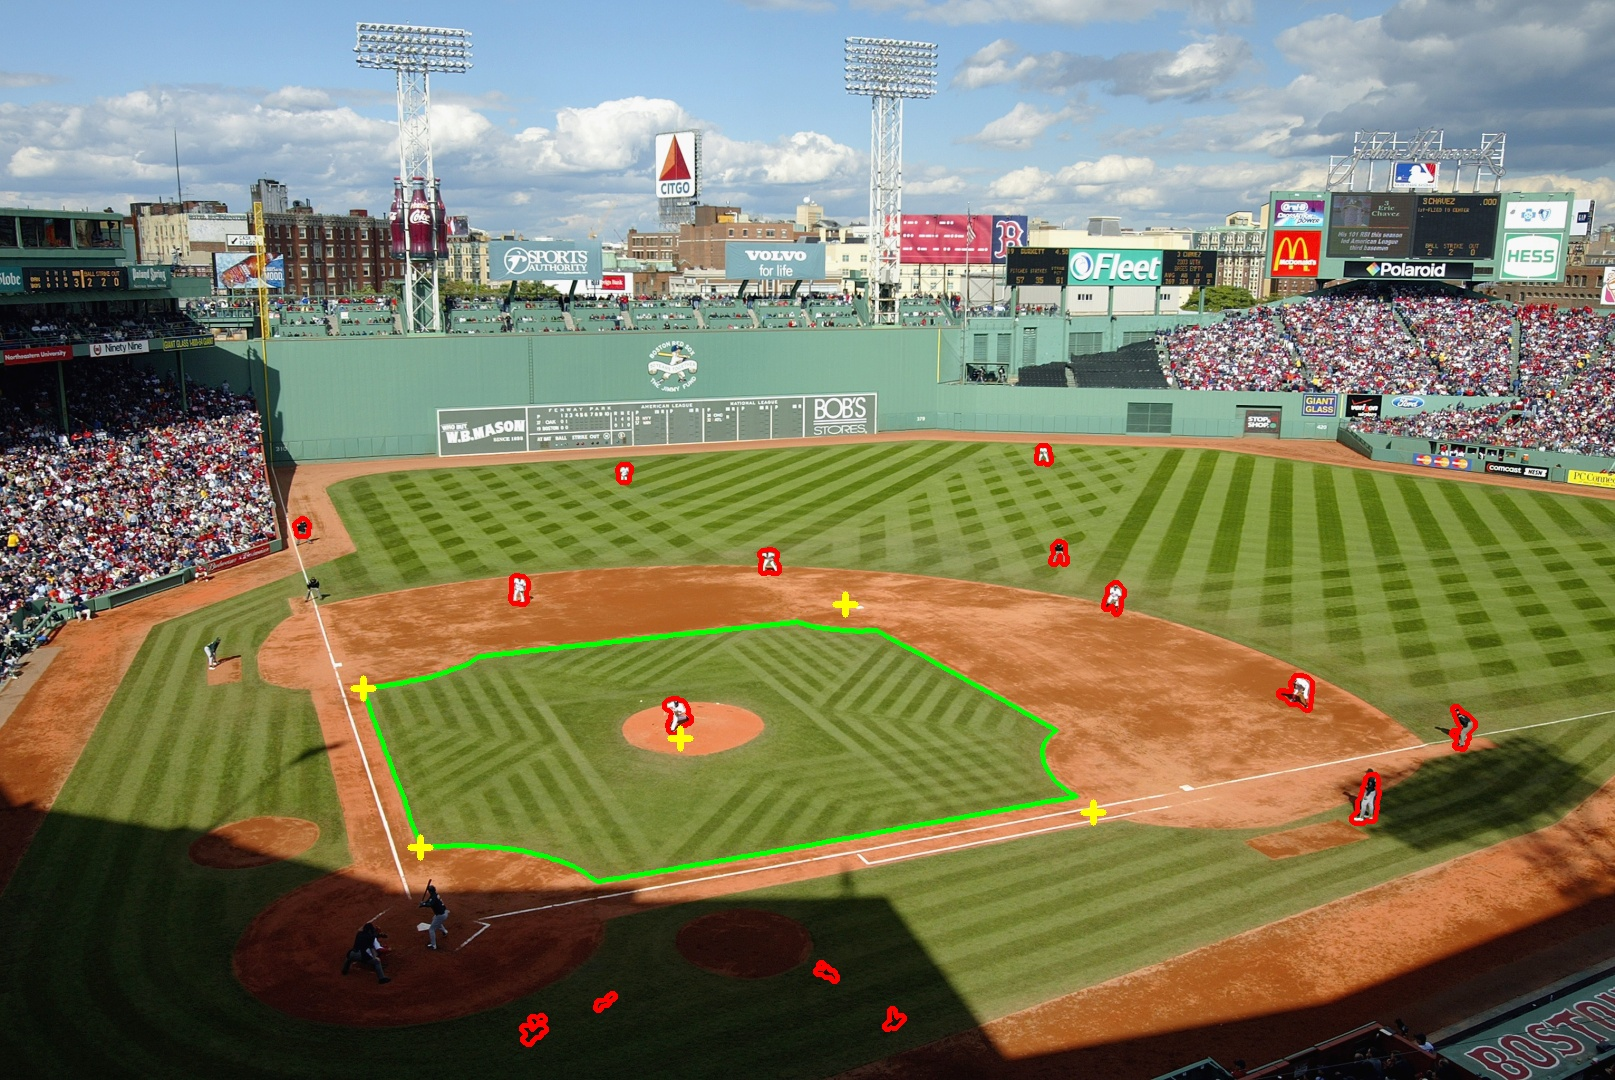
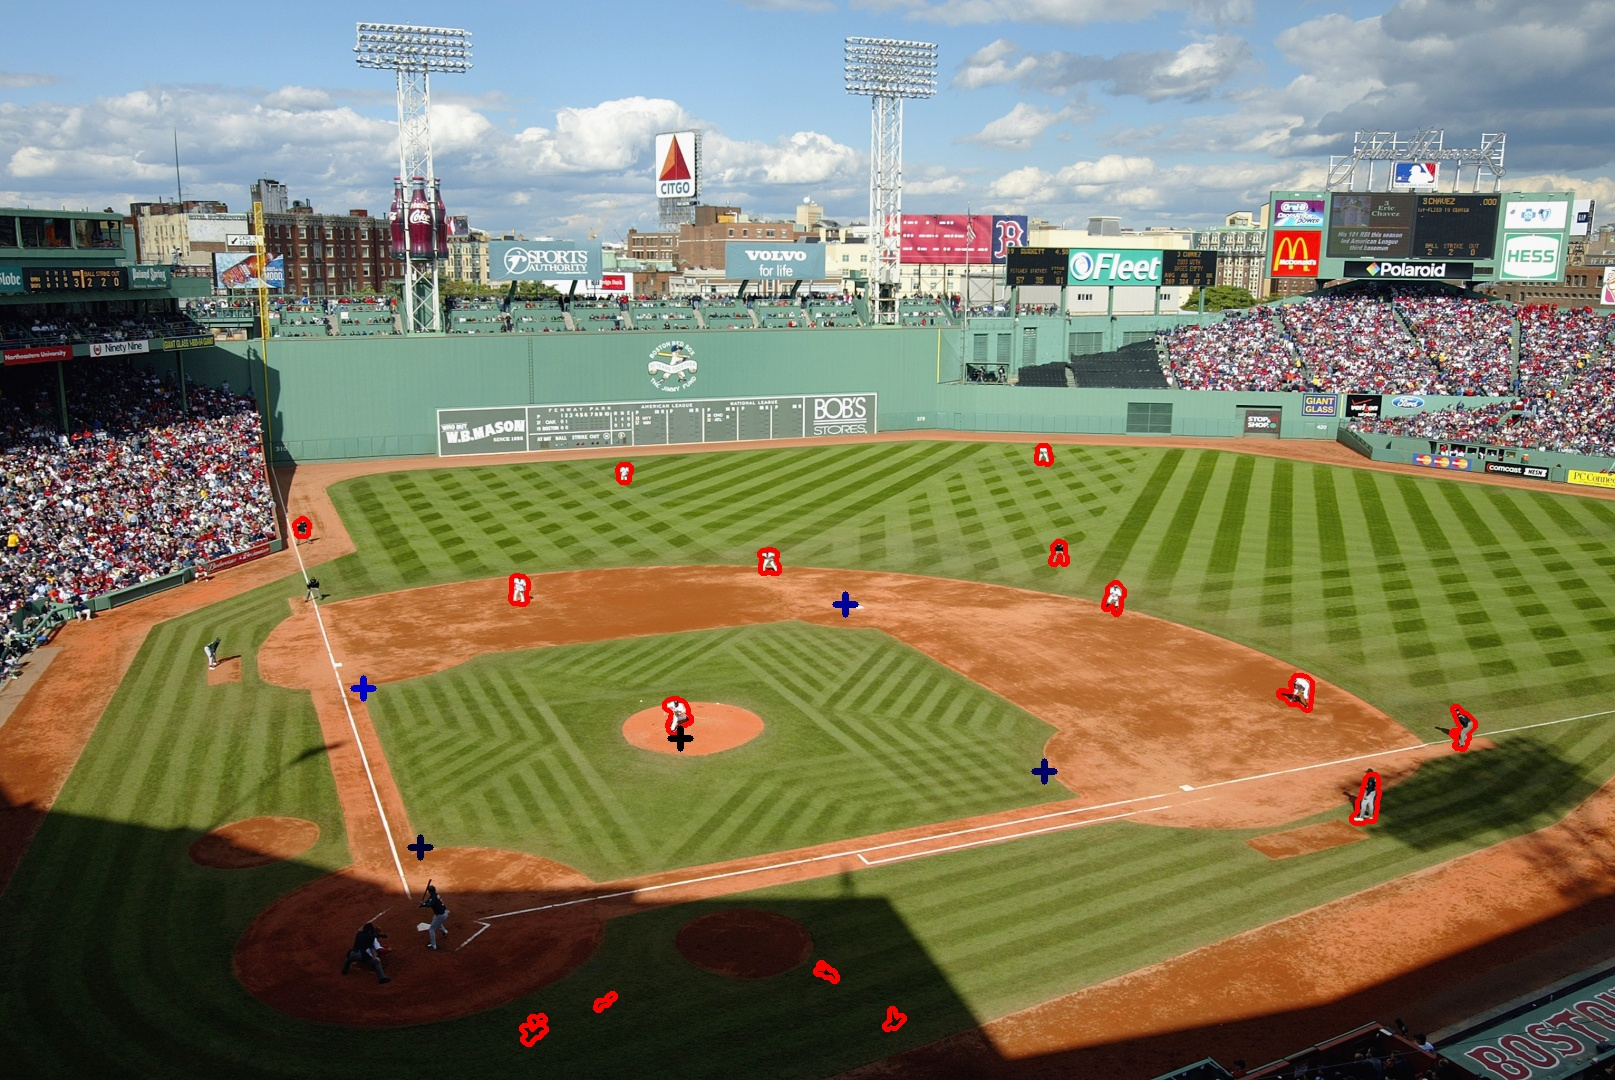
find the mound, first, second and third bases in order

diff --git a/TestPersonDetection/personDetectionTesting.py b/TestPersonDetection/personDetectionTesting.py
@@ -10,7 +10,7 @@ import time
 
 
 HOME_PLATE_ANGLES = [       #in degrees
-    -2.47896732471227,      #image1.jpg
+    176.740300712375,       #image1.jpg
     -157.19834043383372,    #image2.jpg
     -145.90439732553747,    #image3.jpg
     -139.65636091098264,    #...
@@ -44,6 +44,8 @@ class PlayerFinder(object):
         self.infield = None
         self.infield_cnrs = None
 
+        self.positions = []  #order: (pitcher, home, first, second, third, shortstop, left field, center field, right field)
+
         return
 
     def reset_variables(self):
@@ -55,6 +57,8 @@ class PlayerFinder(object):
         self.top_infield = None
         self.infield = None
         self.infield_cnrs = None
+
+        self.positions = []
 
     def process_image(self, image, angle):
         '''Main image processing routine
@@ -86,7 +90,6 @@ class PlayerFinder(object):
         if im is not None:
             image = im      #updates output for drawing debug of quad_fit
         self.get_player_contours(mask)
-        print("Thank you, next...")
  
         return image
     
@@ -126,7 +129,7 @@ class PlayerFinder(object):
         self.infield = self.infield['contour']
 
         # to find quadrilateral using hough_fit method
-        cnrs = self.quad_fit(self.infield, image_frame=image)
+        cnrs = self.quad_fit(self.infield, image_frame=image)   # returns corner array in counterclockwise order
 
         if cnrs is None:
             return None
@@ -135,21 +138,37 @@ class PlayerFinder(object):
         pitcher_mound_y = (cnrs[0][1] + cnrs[1][1] + cnrs[2][1] + cnrs[3][1]) / 4
 
         da = 361    #delta angle
-        home_plate = None
+        home_plate_index = None
 
-        for cnr in cnrs:
-            x = cnr[0] - pitcher_mound_x
-            y = pitcher_mound_y - cnr[1] #flip because y goes up as the pixel location goes down
-            angle = atan2(y, x) * (180 / pi)
-            da_temp = abs(angle - expected_home_plate_angle)
+        if expected_home_plate_angle is None:
+            return None
+
+        for i in range(0, len(cnrs)):
+            x = cnrs[i][0] - pitcher_mound_x
+            y = pitcher_mound_y - cnrs[i][1]        #flip because y goes up as the pixel location goes down
+            angle = atan2(y, x) * (180 / pi)    #change to degrees b/c its a more readable format for debugging
+            
+            da_temp = abs(angle - expected_home_plate_angle)   #TODO use the device's gyroscope to adjust the expected angle based on the device's rotation
 
             if da_temp < da:
                 da = da_temp
-                home_plate = cnr
-        print(expected_home_plate_angle)
-        print("Loc of home: " + str(home_plate))
+                home_plate_index = i
+
+        if home_plate_index is None:
+            return None
         
-        self.infield_cnrs = append(cnrs, [[pitcher_mound_x, pitcher_mound_y]], axis=0).astype(int)
+        self.infield_cnrs = cnrs.astype(int)
+
+        first = (home_plate_index + 1) % 4
+        second = (home_plate_index + 2) % 4
+        third = (home_plate_index + 3) % 4
+
+        self.positions.append([int(pitcher_mound_x), int(pitcher_mound_y)])
+        self.positions.append(self.infield_cnrs[home_plate_index])
+        self.positions.append(self.infield_cnrs[first])
+        self.positions.append(self.infield_cnrs[second])
+        self.positions.append(self.infield_cnrs[third])
+        print(self.positions)
 
         return image
             
@@ -284,23 +303,35 @@ class PlayerFinder(object):
         #green
         if self.top_infield is not None:
             cv2.drawContours(output_frame, self.top_infield, -1, (0, 255, 0), 2)
-        """
+        
         #green
         if self.infield is not None:
             cv2.drawContours(output_frame, [self.infield], -1, (0, 255, 0), 3)
-
+        
         #yellow
         if self.infield_cnrs is not None:
             for cnr in self.infield_cnrs:
                 cv2.drawMarker(output_frame, tuple(cnr), (0, 255, 255), cv2.MARKER_CROSS, 20, 5)
-        
+        """
+
+        #Shades of blue
+        if self.positions is not None and len(self.positions) != 0:
+            b = 0
+            add = int(255 / len(self.positions))
+            for pos in self.positions:
+                cv2.drawMarker(output_frame, tuple(pos), (b, 0, 0), cv2.MARKER_CROSS, 20, 5)
+                b+=add
+
         return output_frame
 
 def process_files(processor, input_files, output_dir):
     '''Process the files and output the marked up image'''
     import os.path
 
+    print()
+
     for image_file in input_files:
+        print("   ** Process image " + str(image_file))
         image_index = ""
         for char in image_file:
             if char.isdigit():
@@ -317,7 +348,7 @@ def process_files(processor, input_files, output_dir):
         scale_percent = new_height / bgr_frame.shape[0]
         width = int(bgr_frame.shape[1] * scale_percent)
         height = int(bgr_frame.shape[0] * scale_percent)
-        print("New Image Size: " + str(width) + "x" + str(height))
+        print("   ** New Image Size: " + str(width) + "x" + str(height))
 
         resized = cv2.resize(bgr_frame, (width, height), interpolation = cv2.INTER_AREA)
         #--------------------------------------------
@@ -328,7 +359,7 @@ def process_files(processor, input_files, output_dir):
         markup = processor.prepare_output_image(resized)
 
         t1 = time.time()
-        print("Processing took: " + str(t1-t0) + " sec\n")
+        print("   ** Processing took: " + str(t1-t0) + " sec\n")
 
         outfile = os.path.join(output_dir, os.path.basename(image_file))
 
